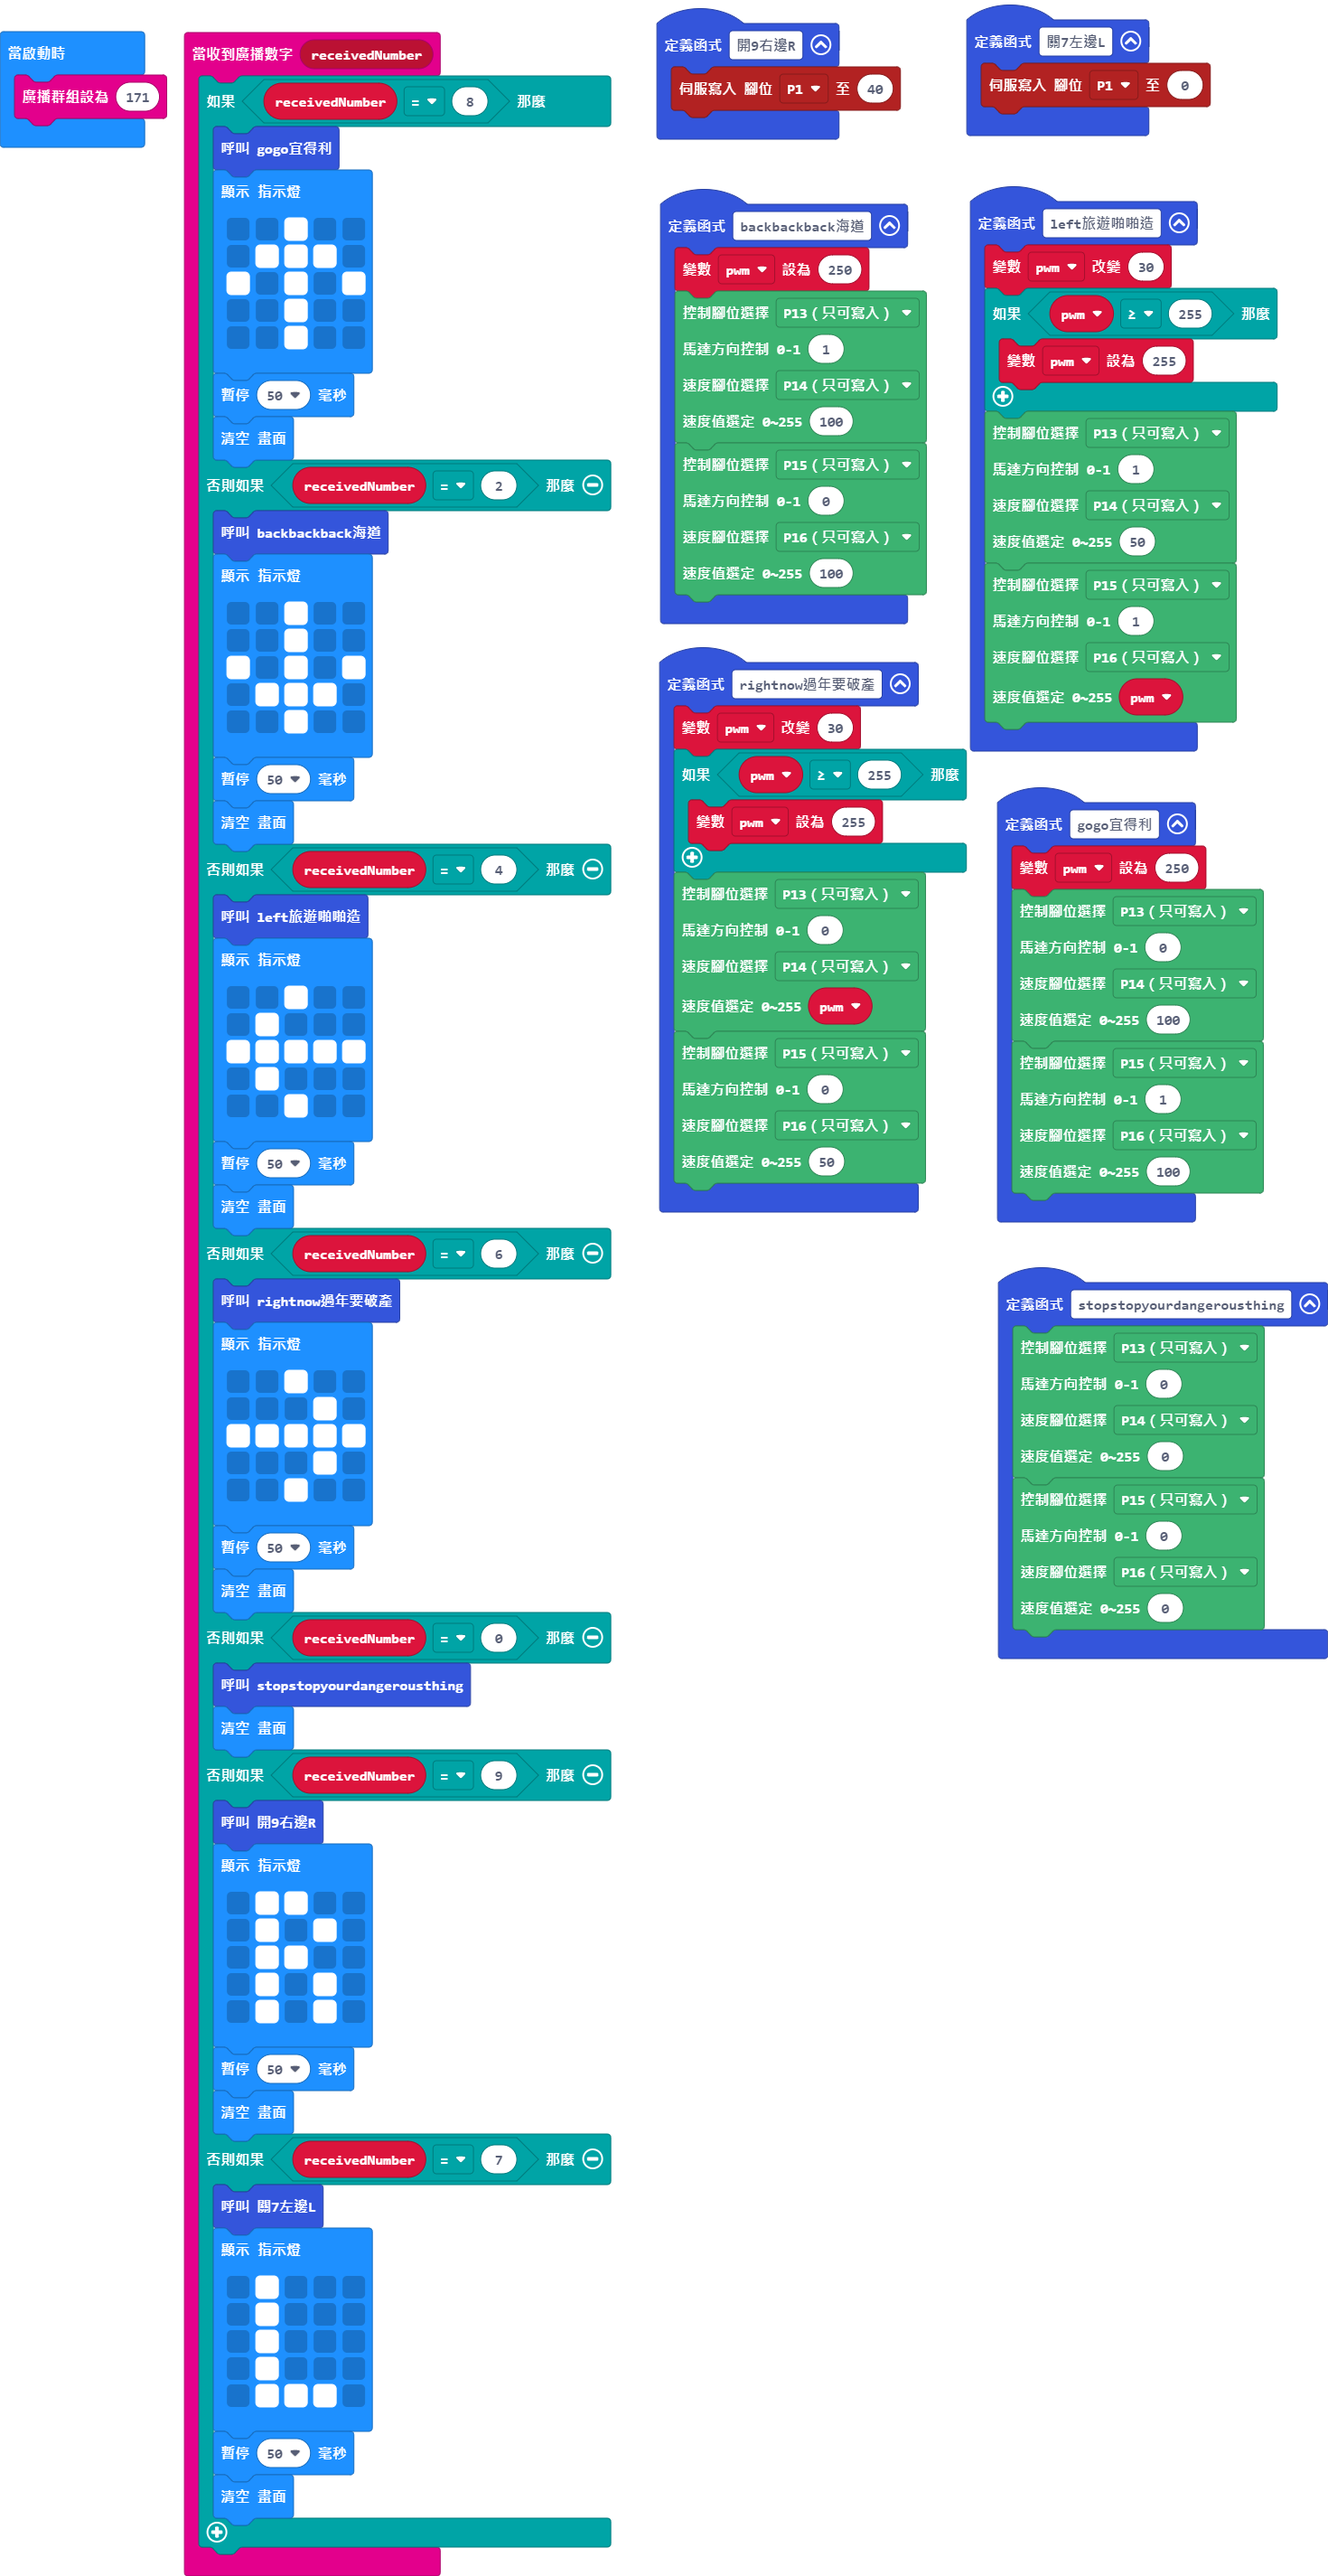
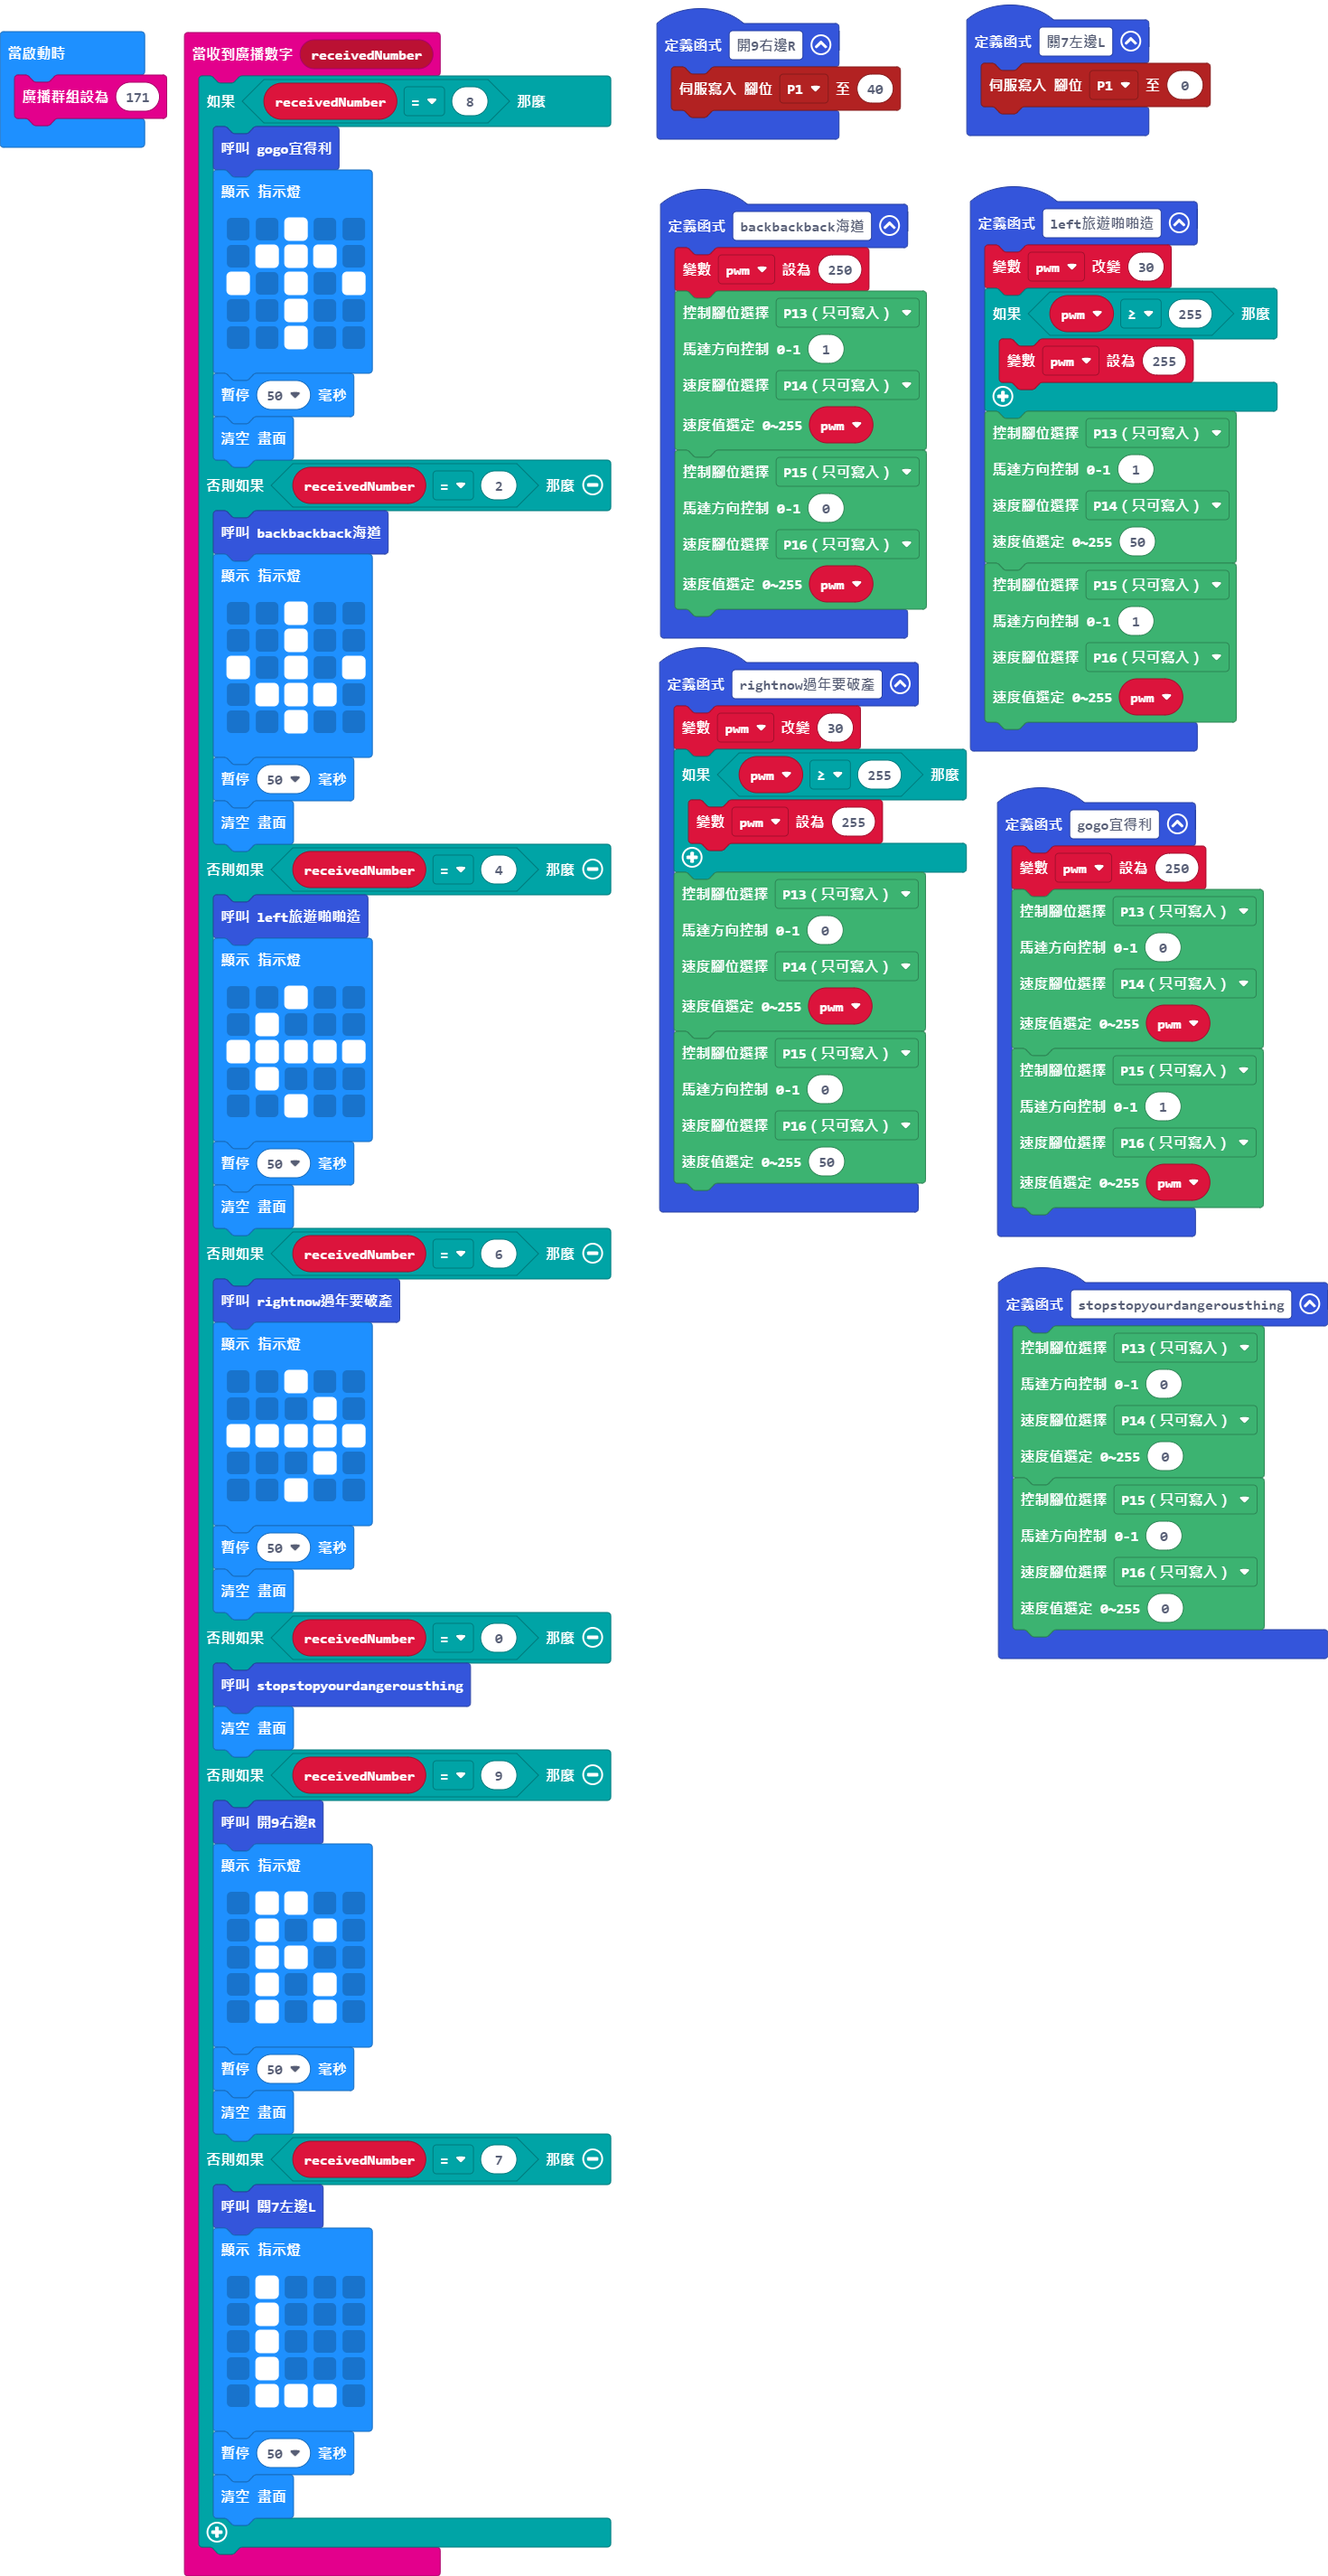
更新 main.blocks, main.ts

Changed region(s): [[0.7347, 0.3747, 0.949, 0.4996], [0.4898, 0.1561, 0.7041, 0.2498]]

diff --git a/main.ts b/main.ts
@@ -4,13 +4,13 @@ function backbackback海道 () {
     AnalogPin.P13,
     1,
     AnalogPin.P14,
-    100
+    pwm
     )
     sensors.DDMmotor(
     AnalogPin.P15,
     0,
     AnalogPin.P16,
-    100
+    pwm
     )
 }
 radio.onReceivedNumber(function (receivedNumber) {
@@ -147,13 +147,13 @@ function gogo宜得利 () {
     AnalogPin.P13,
     0,
     AnalogPin.P14,
-    100
+    pwm
     )
     sensors.DDMmotor(
     AnalogPin.P15,
     1,
     AnalogPin.P16,
-    100
+    pwm
     )
 }
 let pwm = 0
